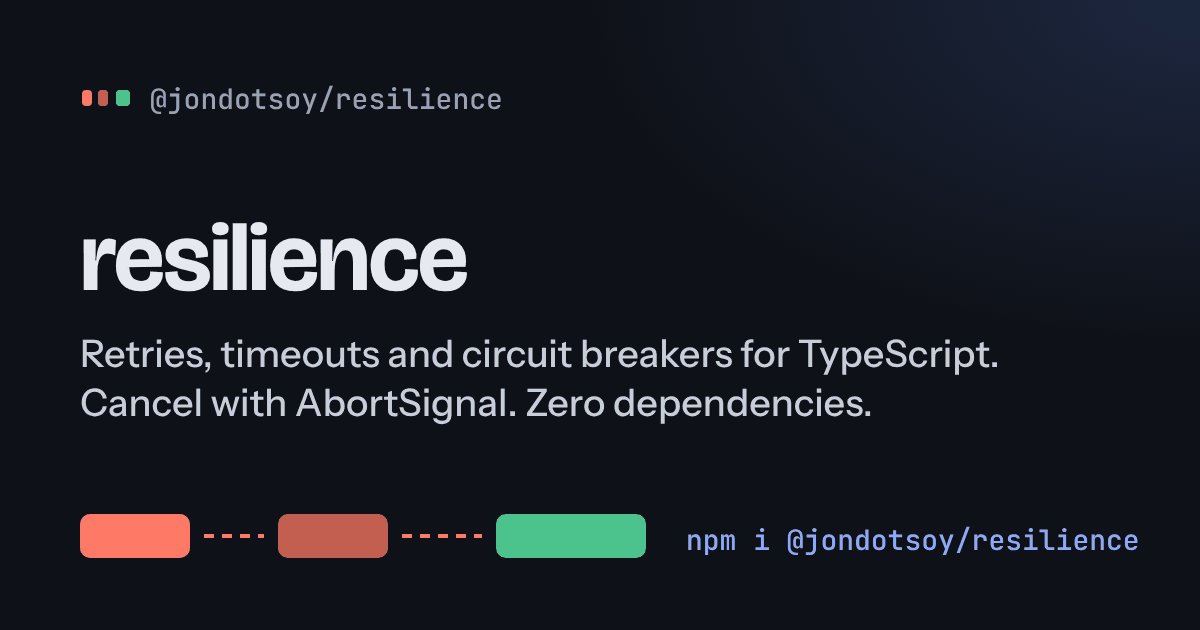
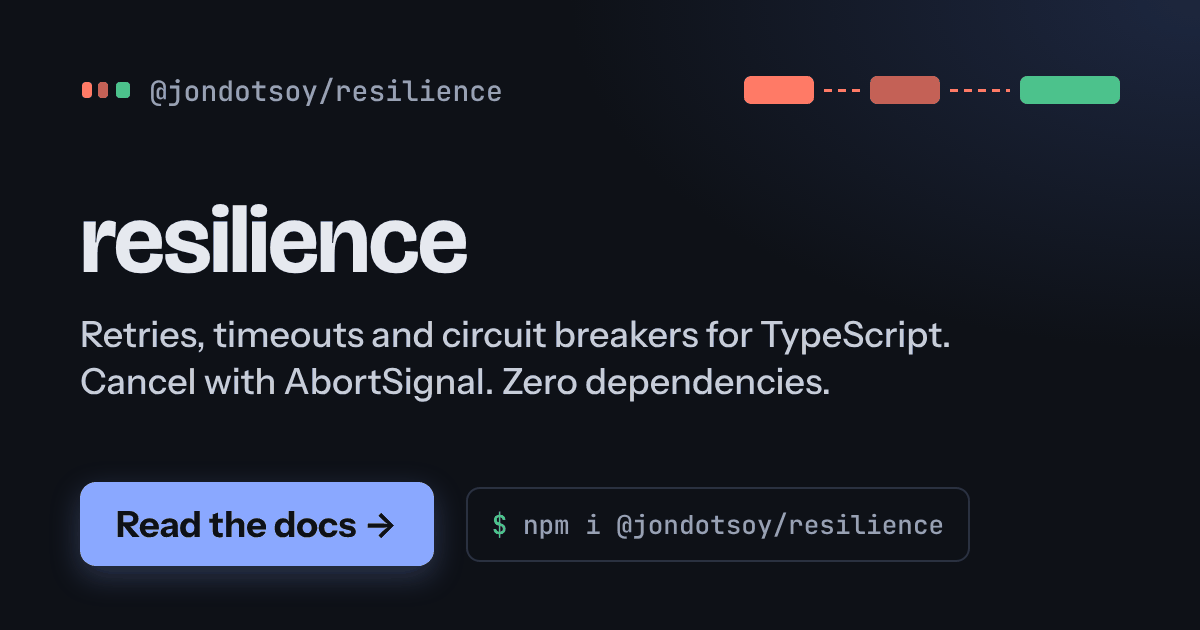
docs(page): add a clear call to action to the Open Graph image (#9)
Adds a "Read the docs" button next to the install command and bumps the
image URL (?v=2) so social caches pick up the new version.

Claude-Session: https://claude.ai/code/session_01BqvTdNuje7dvfPyKhrA2x3

diff --git a/.github/page/index.html b/.github/page/index.html
@@ -19,16 +19,16 @@
 <meta property="og:url" content="https://jondotsoy.github.io/resilience/">
 <meta property="og:title" content="resilience: retry, timeout, circuit breaker for TypeScript">
 <meta property="og:description" content="Retries, backoff, timeouts and AbortSignal cancellation for any function. Circuit breaker and more. Zero dependencies.">
-<meta property="og:image" content="https://jondotsoy.github.io/resilience/og-image.png">
+<meta property="og:image" content="https://jondotsoy.github.io/resilience/og-image.png?v=2">
 <meta property="og:image:width" content="1200">
 <meta property="og:image:height" content="630">
-<meta property="og:image:alt" content="resilience: retries, timeouts and circuit breakers for TypeScript. npm i @jondotsoy/resilience">
+<meta property="og:image:alt" content="resilience: retries, timeouts and circuit breakers for TypeScript. Read the docs. npm i @jondotsoy/resilience">
 <!-- Twitter / X -->
 <meta name="twitter:card" content="summary_large_image">
 <meta name="twitter:title" content="resilience: retry, timeout, circuit breaker for TypeScript">
 <meta name="twitter:description" content="Run any function with retries, backoff, timeouts and AbortSignal cancellation. Zero dependencies.">
-<meta name="twitter:image" content="https://jondotsoy.github.io/resilience/og-image.png">
-<meta name="twitter:image:alt" content="resilience: retries, timeouts and circuit breakers for TypeScript. npm i @jondotsoy/resilience">
+<meta name="twitter:image" content="https://jondotsoy.github.io/resilience/og-image.png?v=2">
+<meta name="twitter:image:alt" content="resilience: retries, timeouts and circuit breakers for TypeScript. Read the docs. npm i @jondotsoy/resilience">
 <!-- Structured data -->
 <script type="application/ld+json">
 {
@@ -46,7 +46,7 @@
       "version": "0.1.3",
       "license": "https://opensource.org/licenses/MIT",
       "keywords": ["retry", "backoff", "timeout", "AbortSignal", "circuit breaker", "bulkhead", "fallback"],
-      "image": "https://jondotsoy.github.io/resilience/og-image.png",
+      "image": "https://jondotsoy.github.io/resilience/og-image.png?v=2",
       "sameAs": ["https://www.npmjs.com/package/@jondotsoy/resilience"],
       "author": { "@id": "https://jon.soy/#person" }
     },
